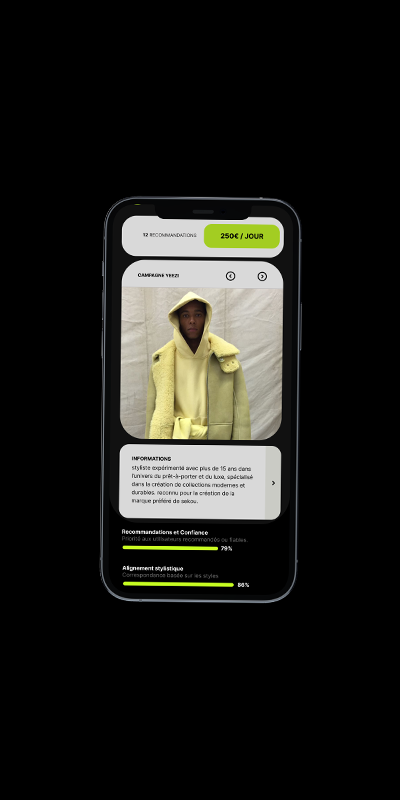
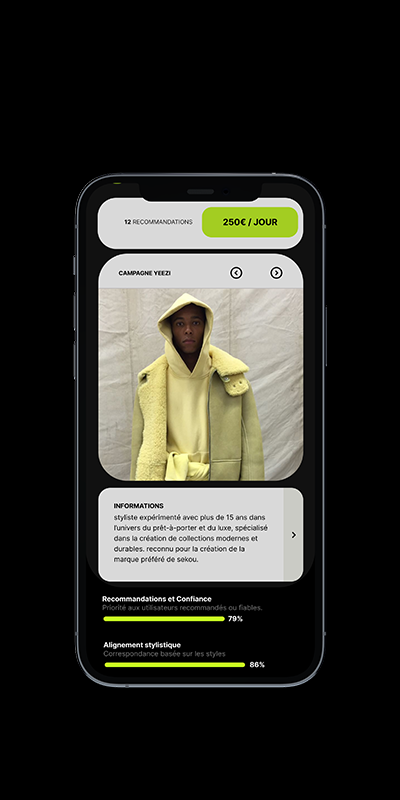
maj slider content

Changed region(s): [[0.18, 0.2188, 0.84, 0.875]]

diff --git a/src/pages/home.jsx b/src/pages/home.jsx
@@ -11,9 +11,12 @@ import mockupMarvel2 from "../images/mockup4.mp4";
 import mockupLovely from "../images/mockup6.png";
 import mockupLovely2 from "../images/mockup7.png";
 import mokupYeni from "../images/mockup_yeni.png";
-import test from "../images/test.png";
-import test2 from "../images/test2.png";
-import test3 from "../images/test3.png";
+import test from "../images/responsive/belami1.png";
+import test2 from "../images/responsive/belami2.png";
+import test3 from "../images/responsive/belami3.png";
+import test4 from "../images/responsive/belami4.png";
+import test5 from "../images/responsive/belami5.png";
+
 const Home = () => {
   const parallax = useRef(null);
 
@@ -41,7 +44,7 @@ const Home = () => {
               mockupBelami,
               mockupBelami2, // Remplacer par d'autres images
             ]}
-            sliderImagesResponsive={[test, test2]}
+            sliderImagesResponsive={[test, test2, test3, test4, test5]}
             cssStyle={[
               "featured-container",
               "featured-mokup",

diff --git a/src/App.css b/src/App.css
@@ -602,7 +602,7 @@ header {
   .project-slider-responsive-container {
     display: block;
     width: 100%;
-    height: 60vh;
+    height: 70vh;
     margin: 0;
   }
 
